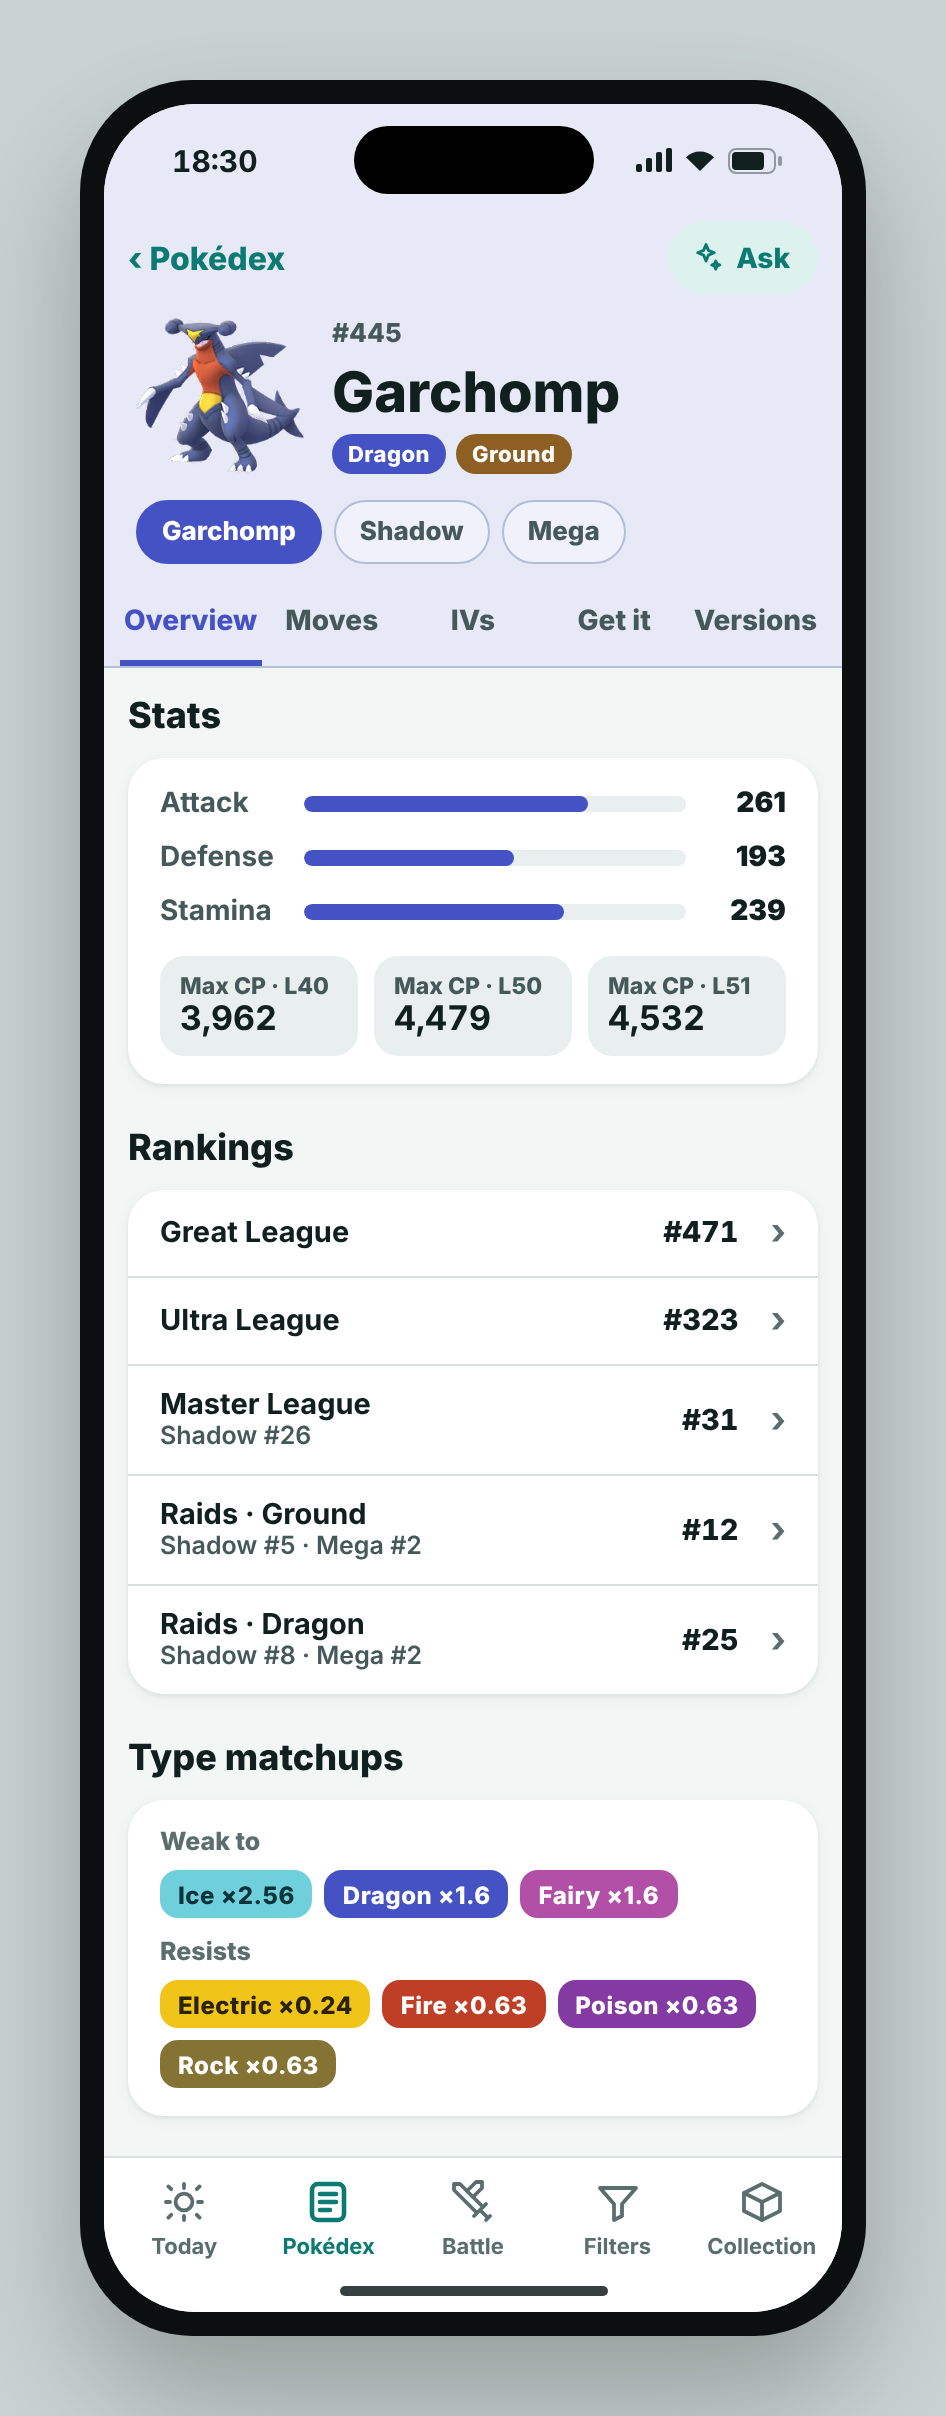
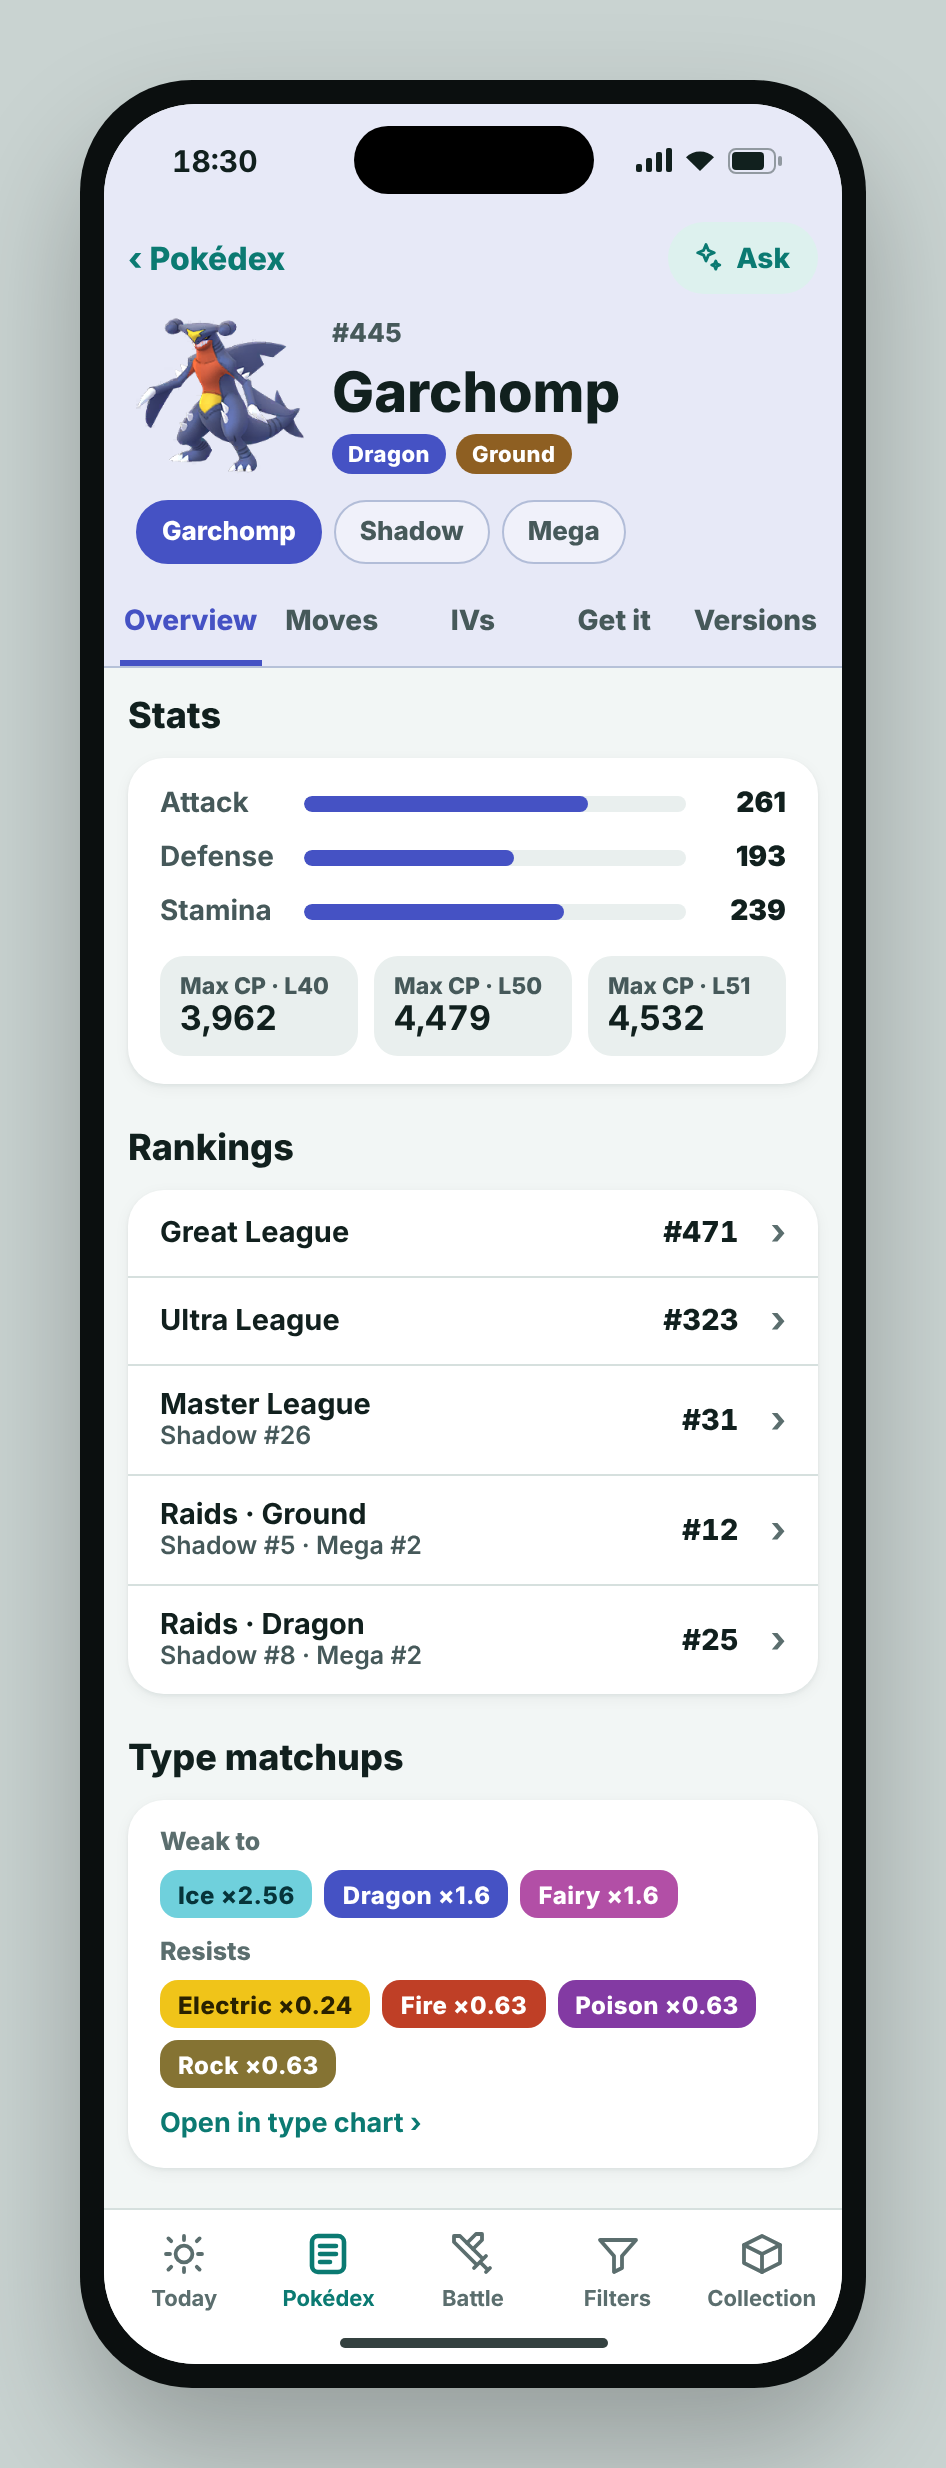
Log B5 approval; B2 matchups link to the type chart
Claude-Session: https://claude.ai/code/session_014PLsCiJiJmtsciFeh9tQXY

diff --git a/design/source/screens/B2-desktop.html b/design/source/screens/B2-desktop.html
@@ -16,6 +16,7 @@
 <div class="lrow" style="padding:6px 0 0;border-top:0"><span>Ultra League</span><span class="r" style="color:var(--accent)">#232 <span class="faint">· 97.9% · CP 2,471</span></span></div>
 <div class="lrow" style="padding:6px 0 0;border-top:0"><span>Master League</span><span class="r">#590 <span class="faint">· 94.4%</span></span></div></div></section><section class="sec"><h2>100% CP cheat sheet</h2><div class="card"><div class="lrow"><span>Research</span><span class="faint" style="font-size:12.5px">L15</span><span class="r">1,698</span></div><div class="lrow"><span>Raids &amp; eggs</span><span class="faint" style="font-size:12.5px">L20</span><span class="r">2,264</span></div><div class="lrow"><span>Weather-boosted raids</span><span class="faint" style="font-size:12.5px">L25</span><span class="r">2,830</span></div><div class="lrow"><span>Wild</span><span class="faint" style="font-size:12.5px">L30</span><span class="r">3,396</span></div><div class="lrow"><span>Wild, weather-boosted</span><span class="faint" style="font-size:12.5px">L35</span><span class="r">3,679</span></div></div></section><section class="sec"><h2>Type matchups</h2><div class="card pad" style="display:flex;flex-direction:column;gap:10px">
 <div><div class="faint" style="font-size:12.5px;font-weight:800;margin-bottom:6px">Weak to</div><div class="mm"><span class="type ice" style="height:24px;font-size:12px;padding:0 9px">Ice ×2.56</span><span class="type dragon" style="height:24px;font-size:12px;padding:0 9px">Dragon ×1.6</span><span class="type fairy" style="height:24px;font-size:12px;padding:0 9px">Fairy ×1.6</span></div></div>
-<div><div class="faint" style="font-size:12.5px;font-weight:800;margin-bottom:6px">Resists</div><div class="mm"><span class="type electric" style="height:24px;font-size:12px;padding:0 9px">Electric ×0.24</span><span class="type fire" style="height:24px;font-size:12px;padding:0 9px">Fire ×0.63</span><span class="type poison" style="height:24px;font-size:12px;padding:0 9px">Poison ×0.63</span><span class="type rock" style="height:24px;font-size:12px;padding:0 9px">Rock ×0.63</span></div></div></div></section><section class="sec" id="evolution"><h2>Evolution</h2><div class="card"><div class="evo"><div class="p"><img class="sprite" src="../sprites/443.png" width="56" height="56" alt="" style="opacity:.85">Gible</div><div class="arrow"><span style="font-size:18px">→</span>25 candy</div><div class="p"><img class="sprite" src="../sprites/444.png" width="56" height="56" alt="" style="opacity:.85">Gabite</div><div class="arrow"><span style="font-size:18px">→</span>100 candy</div><div class="p"><img class="sprite" src="../sprites/445.png" width="56" height="56" alt="" style="">Garchomp</div></div>
+<div><div class="faint" style="font-size:12.5px;font-weight:800;margin-bottom:6px">Resists</div><div class="mm"><span class="type electric" style="height:24px;font-size:12px;padding:0 9px">Electric ×0.24</span><span class="type fire" style="height:24px;font-size:12px;padding:0 9px">Fire ×0.63</span><span class="type poison" style="height:24px;font-size:12px;padding:0 9px">Poison ×0.63</span><span class="type rock" style="height:24px;font-size:12px;padding:0 9px">Rock ×0.63</span></div></div>
+<a class="seclink" style="font-size:13.5px">Open in type chart ›</a></div></section><section class="sec" id="evolution"><h2>Evolution</h2><div class="card"><div class="evo"><div class="p"><img class="sprite" src="../sprites/443.png" width="56" height="56" alt="" style="opacity:.85">Gible</div><div class="arrow"><span style="font-size:18px">→</span>25 candy</div><div class="p"><img class="sprite" src="../sprites/444.png" width="56" height="56" alt="" style="opacity:.85">Gabite</div><div class="arrow"><span style="font-size:18px">→</span>100 candy</div><div class="p"><img class="sprite" src="../sprites/445.png" width="56" height="56" alt="" style="">Garchomp</div></div>
 <div class="lrow" style="font-size:13.5px"><span class="muted">Buddy distance</span><span class="r">5 km</span></div></div></section><section class="sec" id="get"><h2>How to get it</h2><div class="card"><div class="lrow" style="padding-bottom:4px"><span class="pill live"><span class="dot" style="width:7px;height:7px;margin:0"></span>Right now</span></div><div class="lrow"><span>1★ raids</span><span class="r" style="font-weight:700;text-align:right;color:var(--text-2)">Gible · until Tue 3 Nov</span></div><div class="lrow"><span>10 km eggs</span><span class="r" style="font-weight:700;text-align:right;color:var(--text-2)">Gible</span></div><div class="lrow"><span>Field Research</span><span class="r" style="font-weight:700;text-align:right;color:var(--text-2)">Win 3 raids → Gible</span></div><div class="lrow"><span>Community Day</span><span class="r" style="font-weight:700;text-align:right;color:var(--text-2)">Gible · Sat 7 Nov</span></div></div>
 <div class="card"><div class="lrow" style="padding-bottom:4px"><b style="font-size:13px" class="faint">USUALLY</b></div><div class="lrow"><span>Wild</span><span class="r" style="font-weight:700;text-align:right;color:var(--text-2)">Gible, rare</span></div><div class="lrow"><span>Eggs</span><span class="r" style="font-weight:700;text-align:right;color:var(--text-2)">10 km</span></div><div class="lrow"><span>Raids</span><span class="r" style="font-weight:700;text-align:right;color:var(--text-2)">Gible 1★ · Mega Garchomp</span></div></div></section></div></div></div></div><script src="../chrome.js"></script></body></html>

diff --git a/design/source/screens/B2-phone.html b/design/source/screens/B2-phone.html
@@ -4,6 +4,7 @@
 <div class="scroll"><div style="padding:14px 12px 20px;display:flex;flex-direction:column;gap:22px"><section class="sec" id="overview"><h2>Stats</h2><div class="card pad" style="display:flex;flex-direction:column;gap:10px"><div class="statrow"><span class="muted">Attack</span><div class="bar"><i style="width:74.6%"></i></div><b style="text-align:right">261</b></div><div class="statrow"><span class="muted">Defense</span><div class="bar"><i style="width:55.1%"></i></div><b style="text-align:right">193</b></div><div class="statrow"><span class="muted">Stamina</span><div class="bar"><i style="width:68.3%"></i></div><b style="text-align:right">239</b></div>
 <div class="kv" style="margin-top:4px"><div><span>Max CP · L40</span><b>3,962</b></div><div><span>Max CP · L50</span><b>4,479</b></div><div><span>Max CP · L51</span><b>4,532</b></div></div></div></section><section class="sec"><h2>Rankings</h2><div class="card"><div class="lrow"><div><div>Great League</div></div><span class="r">#471</span><span class="chev">›</span></div><div class="lrow"><div><div>Ultra League</div></div><span class="r">#323</span><span class="chev">›</span></div><div class="lrow"><div><div>Master League</div><div class=sub>Shadow #26</div></div><span class="r">#31</span><span class="chev">›</span></div><div class="lrow"><div><div>Raids · Ground</div><div class=sub>Shadow #5 · Mega #2</div></div><span class="r">#12</span><span class="chev">›</span></div><div class="lrow"><div><div>Raids · Dragon</div><div class=sub>Shadow #8 · Mega #2</div></div><span class="r">#25</span><span class="chev">›</span></div></div></section><section class="sec"><h2>Type matchups</h2><div class="card pad" style="display:flex;flex-direction:column;gap:10px">
 <div><div class="faint" style="font-size:12.5px;font-weight:800;margin-bottom:6px">Weak to</div><div class="mm"><span class="type ice" style="height:24px;font-size:12px;padding:0 9px">Ice ×2.56</span><span class="type dragon" style="height:24px;font-size:12px;padding:0 9px">Dragon ×1.6</span><span class="type fairy" style="height:24px;font-size:12px;padding:0 9px">Fairy ×1.6</span></div></div>
-<div><div class="faint" style="font-size:12.5px;font-weight:800;margin-bottom:6px">Resists</div><div class="mm"><span class="type electric" style="height:24px;font-size:12px;padding:0 9px">Electric ×0.24</span><span class="type fire" style="height:24px;font-size:12px;padding:0 9px">Fire ×0.63</span><span class="type poison" style="height:24px;font-size:12px;padding:0 9px">Poison ×0.63</span><span class="type rock" style="height:24px;font-size:12px;padding:0 9px">Rock ×0.63</span></div></div></div></section></div></div>
+<div><div class="faint" style="font-size:12.5px;font-weight:800;margin-bottom:6px">Resists</div><div class="mm"><span class="type electric" style="height:24px;font-size:12px;padding:0 9px">Electric ×0.24</span><span class="type fire" style="height:24px;font-size:12px;padding:0 9px">Fire ×0.63</span><span class="type poison" style="height:24px;font-size:12px;padding:0 9px">Poison ×0.63</span><span class="type rock" style="height:24px;font-size:12px;padding:0 9px">Rock ×0.63</span></div></div>
+<a class="seclink" style="font-size:13.5px">Open in type chart ›</a></div></section></div></div>
 <div data-tabbar="pokedex"></div></div></div></div><script src="../chrome.js"></script>
 <script>document.querySelector('.statusbar').style.background='color-mix(in srgb, var(--t-dragon) 13%, var(--surface))';</script></body></html>

diff --git a/design/source/screens/gen_b2.py b/design/source/screens/gen_b2.py
@@ -22,7 +22,8 @@ def matchups():
     chip = lambda t, m: f'<span class="type {t}" style="height:24px;font-size:12px;padding:0 9px">{t.capitalize()} {m}</span>'
     return f'''<section class="sec"><h2>Type matchups</h2><div class="card pad" style="display:flex;flex-direction:column;gap:10px">
 <div><div class="faint" style="font-size:12.5px;font-weight:800;margin-bottom:6px">Weak to</div><div class="mm">{''.join(chip(t, m) for t, m in weak)}</div></div>
-<div><div class="faint" style="font-size:12.5px;font-weight:800;margin-bottom:6px">Resists</div><div class="mm">{''.join(chip(t, m) for t, m in res)}</div></div></div></section>'''
+<div><div class="faint" style="font-size:12.5px;font-weight:800;margin-bottom:6px">Resists</div><div class="mm">{''.join(chip(t, m) for t, m in res)}</div></div>
+<a class="seclink" style="font-size:13.5px">Open in type chart ›</a></div></section>'''
 def moves(compact=False):
     best = [("Raids · Ground", "Mud Shot + Earth Power"), ("Raids · Dragon", "Dragon Tail + Breaking Swipe"),
             ("Great &amp; Ultra League", "Dragon Tail + Twister, Sand Tomb"), ("Master League", "Dragon Tail + Twister, Earth Power")]

diff --git a/CLAUDE.md b/CLAUDE.md
@@ -151,6 +151,7 @@ Earlier product work (feature list F01–F25 with priorities, UI choices, first 
 | 2026-10-28 | **B3 Moves list approved** (Fast/Charged switch, type filter, sort; phone Raids/PvP number switch, desktop both side by side; PvP effects shown). The phone Pokédex tab gets a **Pokémon · Moves · Type chart** switcher (B1 updated). |
 | 2026-10-28 | Move page (B4): learners **sorted by base Attack**, no computed score (a raid score was tried and rejected as an unexplained number); rare groups (Elite TM, Legacy) shown first. |
 | 2026-10-28 | **B4 Move page approved** (raid and PvP numbers, Elite TM / Legacy / normal learner groups sorted by Attack, event note when an event gives the move). The owner likes a **raid score** for ranking, but it must be **explained, not a bare number** — to be designed with the raid counters (C2). |
+| 2026-10-28 | **B5 Type chart approved** (phone: Defending · Attacking · Full chart; desktop: picker + full chart; GO multipliers ×1.6 / ×0.63 / ×0.39, no immunities). Pokémon page matchups link to the type chart (B2 updated). |
 
 ## Open decisions
 
